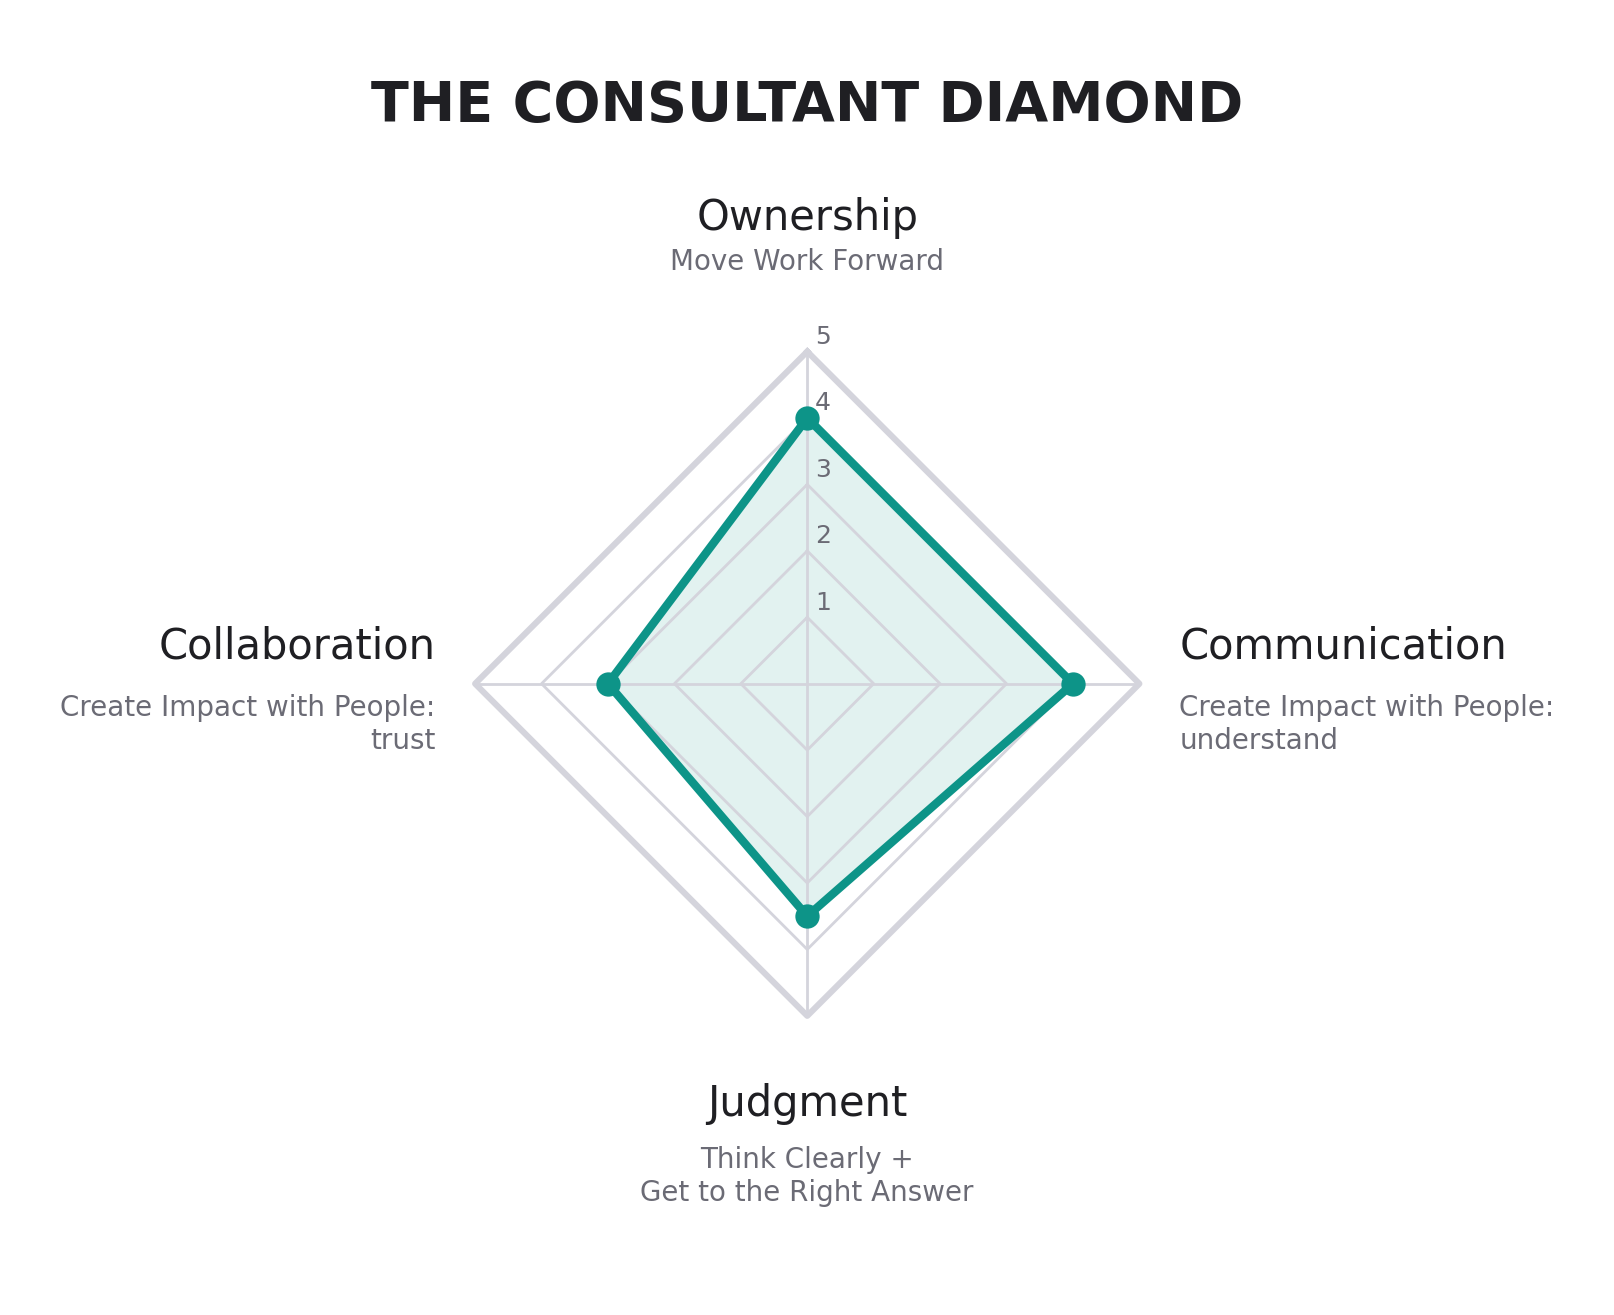
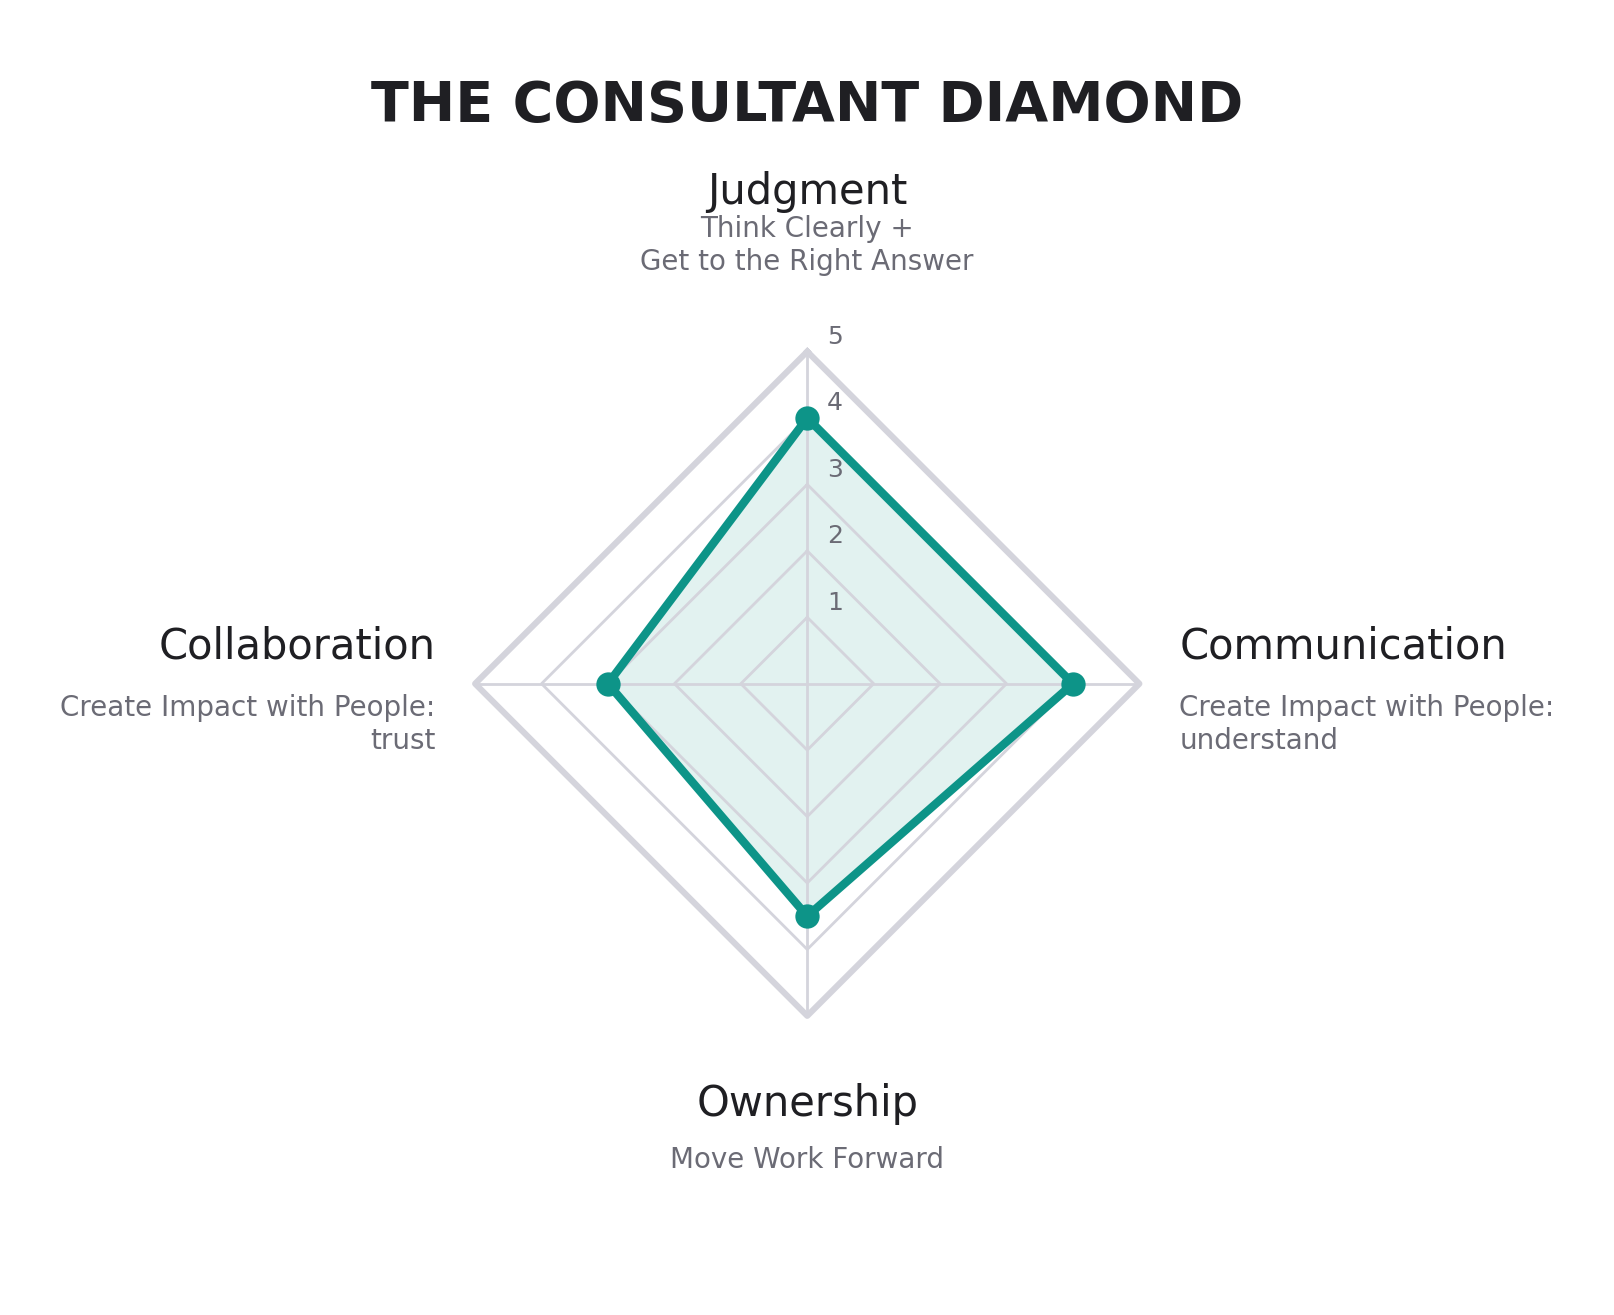
Put Judgment at the top of the Consultant diamond
Swaps Judgment and Ownership so the vertical axis reads in the order the
work happens: right work first, then moving it. Communication and
Collaboration stay on the right and left. Updates the chart, its caption
and alt text, and the orientation note in CLAUDE.md, and fixes the top
label's spacing for a two-line subtitle.

Claude-Session: https://claude.ai/code/session_011oPqnqnhtL1vJUK9tJFfon

diff --git a/scripts/consultant_diamond.py b/scripts/consultant_diamond.py
@@ -4,11 +4,11 @@ matplotlib.use("Agg")
 import matplotlib.pyplot as plt
 
 TEAL, FILL, RING, INK, GREY = "#0d9488", "#d9eeec", "#d4d4dc", "#1f1f23", "#6b6b75"
-# clockwise from top: Ownership, Communication, Judgment, Collaboration
+# clockwise from top: Judgment, Communication, Ownership, Collaboration
 dirs = [(0, 1), (1, 0), (0, -1), (-1, 0)]
-labels = [("Ownership", "Move Work Forward"),
+labels = [("Judgment", "Think Clearly +\nGet to the Right Answer"),
           ("Communication", "Create Impact with People:\nunderstand"),
-          ("Judgment", "Think Clearly +\nGet to the Right Answer"),
+          ("Ownership", "Move Work Forward"),
           ("Collaboration", "Create Impact with People:\ntrust")]
 example = [4, 4, 3.5, 3]
 
@@ -21,7 +21,7 @@ for r in range(1, 6):
 for d in dirs:
     ax.plot([0, d[0] * 5], [0, d[1] * 5], color=RING, lw=1.0, zorder=1)
 for r in range(1, 6):
-    ax.text(0.12, r + 0.05, str(r), color=GREY, fontsize=9, va="bottom", ha="left", zorder=5)
+    ax.text(0.3, r + 0.05, str(r), color=GREY, fontsize=9, va="bottom", ha="left", zorder=5)
 px = [d[0] * v for d, v in zip(dirs, example)]; py = [d[1] * v for d, v in zip(dirs, example)]
 ax.fill(px, py, color=FILL, alpha=0.75, zorder=0)
 ax.plot(px + [px[0]], py + [py[0]], color=TEAL, lw=3, zorder=3)
@@ -31,7 +31,7 @@ pos = [((0, 6.15), "center", "bottom"), ((5.6, 0), "left", "center"),
        ((0, -6.0), "center", "top"), ((-5.6, 0), "right", "center")]
 for (name, imp), ((x, y), ha, va) in zip(labels, pos):
     if va == "bottom":
-        ax.text(x, y + 0.55, name, ha=ha, va="bottom", fontsize=15, color=INK)
+        ax.text(x, y + 0.15 + 0.4 * (imp.count("\n") + 1), name, ha=ha, va="bottom", fontsize=15, color=INK)
         ax.text(x, y, imp, ha=ha, va="bottom", fontsize=10, color=GREY)
     elif va == "top":
         ax.text(x, y, name, ha=ha, va="top", fontsize=15, color=INK)

diff --git a/CLAUDE.md b/CLAUDE.md
@@ -272,7 +272,7 @@ The course organizes consulting skills into **4 Imperatives**, each with a guidi
 
 ### The Consultant Diamond
 
-Added 2026-10-08. Four axes, each rated 1 to 5 by other people (teammates, clients, TAs) against written behavioral anchors. Drawn clockwise from the top: Ownership, Communication, Judgment, Collaboration. The work is on the vertical, the people on the horizontal. Student-facing home: `02-consultants-os.qmd#consultant-diamond`; image `images/consultant-diamond.png` (regenerate with `python3 scripts/consultant_diamond.py`).
+Added 2026-10-08. Four axes, each rated 1 to 5 by other people (teammates, clients, TAs) against written behavioral anchors. Drawn clockwise from the top: Judgment, Communication, Ownership, Collaboration. The work is on the vertical, the people on the horizontal. Student-facing home: `02-consultants-os.qmd#consultant-diamond`; image `images/consultant-diamond.png` (regenerate with `python3 scripts/consultant_diamond.py`).
 
 | Axis | Imperative behind it | Judged on |
 |------|----------------------|-----------|
